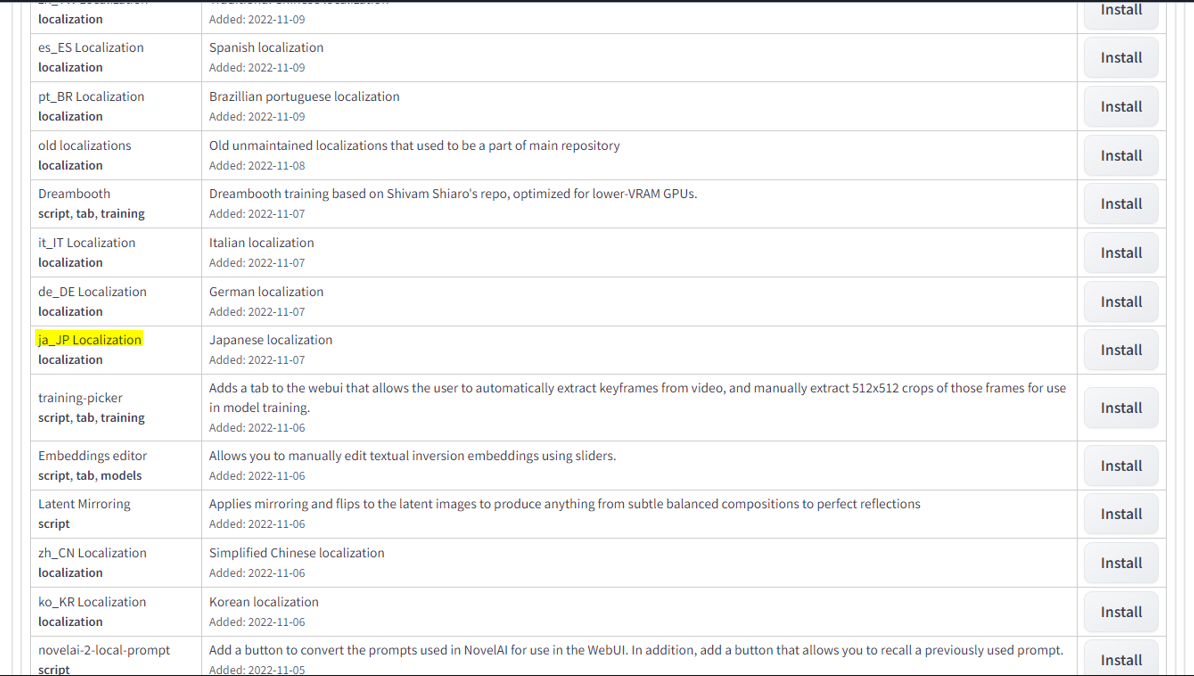
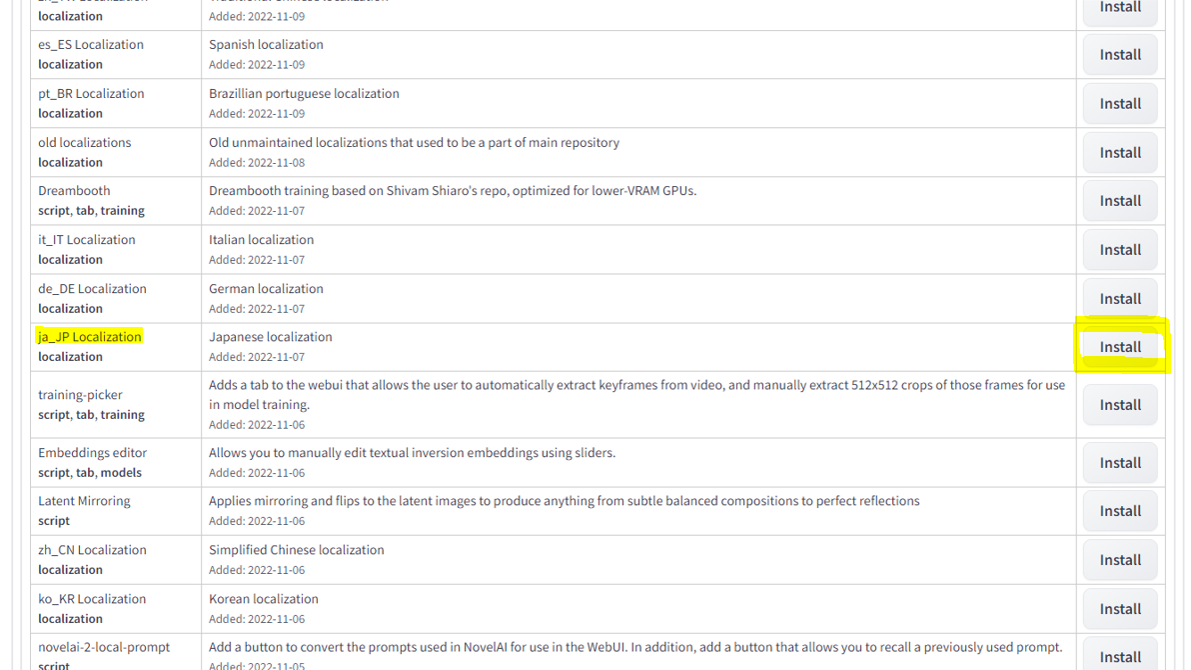
a

diff --git a/parts/ai.html b/parts/ai.html
@@ -2213,6 +2213,11 @@ ChatGPT
         <img class="beside" src="../img/AI/\ControlNet/環境/ja_JPLocalization.PNG" alt="ja_JPLocalization.PNG">
         <figcaption>ja_JPLocalization.PNG</figcaption>
       </figure>
+      <p>「Settings」タブの下に「Localization (requires restart)」があるので、「ja_JP」を選択</p>
+      <figure>
+        <img class="beside" src="../img/AI/\ControlNet/環境/ja_JP.PNG" alt="ja_JP.PNG">
+        <figcaption>ja_JP.PNG</figcaption>
+      </figure>
     </details>
 
 </main>
